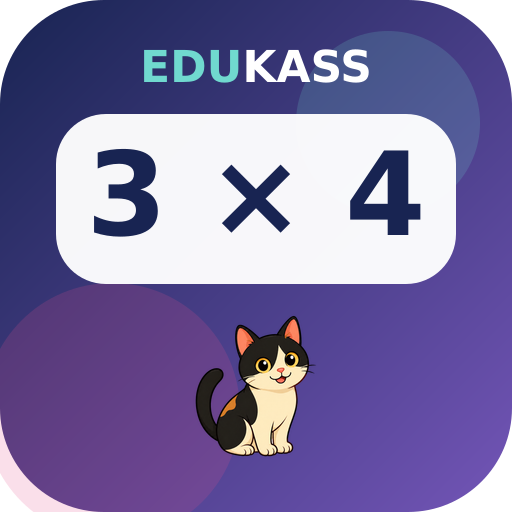
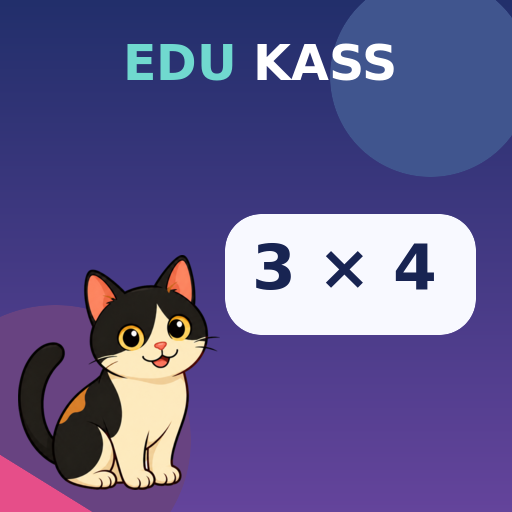
ок

diff --git a/games/korrutamine-test/game.css b/games/korrutamine-test/game.css
@@ -1314,25 +1314,121 @@ body.intro-active{overflow:hidden}
   .install-button-icon{font-size:1.55rem!important}
 }
 
-/* v39: mobile breathing room and safe intro composition. */
-@media(max-width:700px){
-  .topbar{
-    height:78px;
-    padding-top:12px;
-    padding-bottom:12px;
-  }
-  .intro-math span{
-    max-width:calc(100vw - 32px);
-    padding:.42em .62em!important;
-    font-size:1.08rem!important;
-    white-space:nowrap;
-  }
-  .intro-math span:first-child{left:16px!important;top:29%}
-  .intro-math span:last-child{right:16px!important;top:38%}
-}
-
 @media(max-height:500px) and (min-width:701px){
   .intro-brand{top:2.5%!important}
   .intro-brand small{font-size:clamp(1.55rem,8vh,2.4rem)!important}
   .intro-math span{font-size:1.15rem!important}.intro-math span:first-child{top:22%}.intro-math span:last-child{top:25%}
+}
+
+/* v39: mobile spacing and safe intro bounds. */
+@media(max-width:700px){
+  .topbar{
+    height:auto;
+    min-height:82px;
+    padding-top:12px;
+    padding-bottom:12px;
+  }
+  .intro-math span{
+    max-width:calc(100vw - 24px);
+    padding:.4em .58em!important;
+    font-size:1.05rem!important;
+    white-space:nowrap;
+  }
+  .intro-math span:first-child{left:12px;top:29%}
+  .intro-math span:last-child{left:auto;right:12px;top:38%}
+}
+
+@media(max-width:390px){
+  .topbar{min-height:88px;padding-left:10px;padding-right:10px;gap:8px}
+  .brand{gap:6px}
+  .brand-cat{width:46px;height:46px}
+  .intro-math span{font-size:1rem!important}
+}
+
+/* v40: fixed mobile chrome and one-screen play/intro layouts. */
+.topbar{
+  position:sticky;
+  top:0;
+  isolation:isolate;
+}
+
+@media(max-width:700px){
+  .topbar{
+    min-height:68px;
+    padding:7px max(8px,env(safe-area-inset-right)) 7px max(8px,env(safe-area-inset-left));
+    gap:6px;
+  }
+  .brand{flex:0 0 auto;gap:5px;font-size:.78rem}
+  .brand-cat{width:39px;height:39px;border-radius:12px}
+  .top-actions{min-width:0;margin-left:auto;gap:4px}
+  .install-button{
+    width:auto!important;
+    max-width:132px!important;
+    min-height:42px!important;
+    padding:5px 8px!important;
+    gap:4px!important;
+    font-size:.64rem!important;
+  }
+  .install-button-icon{font-size:1.25rem!important}
+  .share-button{min-height:42px;padding:0 7px;font-size:.62rem;gap:3px}
+  .share-button svg{width:16px;height:16px}
+  .sound-button{width:38px;height:38px;font-size:.92rem}
+  .app-shell{padding-top:8px;padding-bottom:max(18px,env(safe-area-inset-bottom))}
+
+  .battle-top{min-height:38px;margin-bottom:5px}
+  .back-button{min-height:36px}
+  .battle-stage{height:clamp(285px,40dvh,355px);min-height:285px}
+  .question-card{padding-top:25px}
+  .keypad{gap:5px}
+  .keypad button{min-height:40px}
+
+  .intro-brand{
+    top:max(2.6%,env(safe-area-inset-top))!important;
+    width:94vw;
+    font-size:1.55rem!important;
+  }
+  .intro-brand small{
+    margin-top:.22rem;
+    font-size:clamp(1.55rem,8.2vw,2.45rem)!important;
+    line-height:.88;
+  }
+  .intro-math span{
+    max-width:calc(50vw - 18px);
+    padding:.34em .48em!important;
+    font-size:clamp(.8rem,3.7vw,1rem)!important;
+  }
+  .intro-math span:first-child{left:12px;top:27%}
+  .intro-math span:last-child{right:12px;top:34%}
+  .intro-scene{top:52%;height:47vh}
+  .intro-cat-crop{left:-2%;bottom:-1%;width:170px;height:195px}
+  .intro-ignition{left:35%;bottom:16%;width:50px}
+  .intro-rocket{left:74%;top:52%;transform:translate(-50%,-44%) rotate(7deg) scale(.78)}
+  .intro-play{
+    bottom:max(calc(env(safe-area-inset-bottom) + 14px),2.2%)!important;
+    min-width:136px!important;
+    height:54px!important;
+  }
+}
+
+@media(max-width:390px){
+  .topbar{min-height:66px;padding-left:7px;padding-right:7px}
+  .brand{font-size:.72rem}
+  .brand-cat{width:36px;height:36px}
+  .install-button{max-width:118px!important;font-size:.58rem!important;padding:4px 6px!important}
+  .install-button-icon{font-size:1.12rem!important}
+  .share-button{padding:0 5px;font-size:.58rem}
+  .sound-button{width:35px;height:35px}
+}
+
+@media(max-width:700px) and (max-height:720px){
+  .intro-brand{top:max(1.5%,env(safe-area-inset-top))!important;font-size:1.35rem!important}
+  .intro-brand small{font-size:clamp(1.35rem,7.4vw,2rem)!important}
+  .intro-math span:first-child{top:24%}
+  .intro-math span:last-child{top:31%}
+  .intro-scene{top:53%;height:43vh}
+  .intro-cat-crop{width:145px;height:168px}
+  .intro-rocket{transform:translate(-50%,-44%) rotate(7deg) scale(.68)}
+  .intro-play{height:50px!important;min-width:128px!important}
+  .battle-stage{height:clamp(250px,36dvh,300px);min-height:250px}
+  .keypad button{min-height:36px}
 }

diff --git a/games/korrutamine-test/index.html b/games/korrutamine-test/index.html
@@ -5,8 +5,8 @@
   <meta name="viewport" content="width=device-width, initial-scale=1, viewport-fit=cover">
   <meta name="theme-color" content="#182452">
   <link rel="manifest" href="manifest.webmanifest">
-  <link rel="icon" href="assets/icon-192.png?v=39">
-  <link rel="apple-touch-icon" href="assets/icon-192.png?v=39">
+  <link rel="icon" href="assets/icon-192.png?v=40">
+  <link rel="apple-touch-icon" href="assets/icon-192.png?v=40">
   <title data-i18n="meta.title">EDUKASS — Korrutustabeli treener</title>
   <meta name="description" content="EDUKASSi korrutustabeli treener: korrutamise ja jagamise missioonid lastele." data-i18n-content="meta.description">
   <meta property="og:type" content="website">
@@ -14,10 +14,10 @@
   <meta property="og:title" content="Korrutustabeli treener">
   <meta property="og:description" content="Korrutamise ja jagamise missioonid lastele.">
   <meta property="og:url" content="https://edukass.ee/games/korrutamine-test/">
-  <meta property="og:image" content="https://edukass.ee/games/korrutamine-test/assets/share-korrutustabel.png?v=39">
+  <meta property="og:image" content="https://edukass.ee/games/korrutamine-test/assets/share-korrutustabel.png?v=40">
   <meta property="og:image:width" content="1200"><meta property="og:image:height" content="630">
   <meta name="twitter:card" content="summary_large_image">
-  <link rel="stylesheet" href="game.css?v=39">
+  <link rel="stylesheet" href="game.css?v=40">
 </head>
 <body class="intro-active">
   <section class="game-intro is-running" id="introScreen" aria-label="EDUKASSi mängu algus" data-i18n-aria-label="intro.aria">
@@ -330,7 +330,7 @@
   <dialog class="share-dialog install-dialog" id="installDialog" aria-labelledby="installDialogTitle">
     <form method="dialog" class="share-content">
       <button class="share-close" type="submit" aria-label="Sulge">×</button>
-      <div class="install-phone" aria-hidden="true"><img src="assets/icon-192.png?v=38" alt=""></div>
+      <div class="install-phone" aria-hidden="true"><img src="assets/icon-192.png?v=40" alt=""></div>
       <p class="eyebrow">EDUKASS</p>
       <h2 id="installDialogTitle">LISA TELEFONI EKRAANILE</h2>
       <p id="installHelpText">Mängu ikoon ilmub sinu telefoni. Kui automaatne lisamine ei avane, vali brauseri menüüst „Lisa avakuvale”.</p>
@@ -343,6 +343,6 @@
   <script src="i18n.js?v=1"></script>
   <script src="question-engine.js?v=1"></script>
   <script src="progress-store.js?v=1"></script>
-  <script src="game.js?v=38"></script>
+  <script src="game.js?v=40"></script>
 </body>
 </html>

diff --git a/games/korrutamine-test/service-worker.js b/games/korrutamine-test/service-worker.js
@@ -1,5 +1,5 @@
-const CACHE='edukass-korrutustabel-v39';
-const ASSETS=['./','./index.html','./game.css?v=39','./game.js?v=38','./manifest.webmanifest','./locales/et.js','./chapter-one.config.js','./i18n.js','./question-engine.js','./progress-store.js','./assets/icon-192.png?v=39','./assets/icon-512.png?v=39','./assets/share-korrutustabel.png?v=39','./assets/edukass-cat.png','./assets/edukass-cat-transparent.png','./assets/edukass-cat-reward-surprise.png','./assets/edukass-cat-reward-joy.png'];
+const CACHE='edukass-korrutustabel-v40';
+const ASSETS=['./','./index.html','./game.css?v=40','./game.js?v=40','./manifest.webmanifest','./locales/et.js','./chapter-one.config.js','./i18n.js','./question-engine.js','./progress-store.js','./assets/icon-192.png?v=40','./assets/icon-512.png?v=40','./assets/share-korrutustabel.png?v=40','./assets/edukass-cat.png','./assets/edukass-cat-transparent.png','./assets/edukass-cat-reward-surprise.png','./assets/edukass-cat-reward-joy.png'];
 self.addEventListener('install',event=>event.waitUntil(caches.open(CACHE).then(cache=>cache.addAll(ASSETS)).then(()=>self.skipWaiting())));
 self.addEventListener('activate',event=>event.waitUntil(caches.keys().then(keys=>Promise.all(keys.filter(key=>key!==CACHE).map(key=>caches.delete(key)))).then(()=>self.clients.claim())));
 self.addEventListener('fetch',event=>{

diff --git a/games/korrutamine-test/tests/system-foundations.test.js b/games/korrutamine-test/tests/system-foundations.test.js
@@ -1,4 +1,5 @@
 const assert=require('node:assert/strict');
+const fs=require('node:fs');
 const path=require('node:path');
 
 const gameRoot=path.resolve(__dirname,'..');
@@ -48,7 +49,12 @@ assert.equal(i18n.t('lesson.openMission',{number:11}),'Ava 11. missioon');
 assert.equal(i18n.t('feedback.correctAnswer',{answer:18}),'Õige vastus on 18');
 assert.equal(i18n.t('share.button'),'JAGA');
 assert.equal(i18n.t('share.copied'),'Link kopeeritud!');
+assert.equal(i18n.t('lesson.toExplanations'),'MÄNGI!');
 assert.equal(i18n.t('missing.key',{},'Varutekst'),'Varutekst');
+
+const gameCode=fs.readFileSync(path.join(gameRoot,'game.js'),'utf8');
+assert.match(gameCode,/currentLessonMode===LESSON_CONFIG\.divisionMode\?DIVISION_MISSION_ID:1/);
+assert.match(gameCode,/startLevel\(level,\{historyMode:'replace'\}\)/);
 
 const unsupported=i18nApi.create({
   locales:{et},

diff --git a/games/korrutamine-test/game.js b/games/korrutamine-test/game.js
@@ -1436,8 +1436,9 @@ lessonContinueButton.addEventListener('click',()=>{
   else progress.multiplicationLessonSeen=true;
   saveProgress();
   if(pendingLevelAfterLesson==='explanations'){
+    const level=currentLessonMode===LESSON_CONFIG.divisionMode?DIVISION_MISSION_ID:1;
     pendingLevelAfterLesson=null;
-    history.back();
+    startLevel(level,{historyMode:'replace'});
   }else if(pendingLevelAfterLesson==='map'){
     pendingLevelAfterLesson=null;
     history.back();

diff --git a/games/korrutamine-test/locales/et.js b/games/korrutamine-test/locales/et.js
@@ -47,7 +47,7 @@
       'lesson.numberAria':'Arv {value}',
       'lesson.dividendValueAria':'Jagatav {value}',
       'lesson.openMission':'Ava {number}. missioon',
-      'lesson.toExplanations':'Selgituste juurde',
+      'lesson.toExplanations':'MÄNGI!',
       'lesson.toMissions':'← KAARDILE',
       'explanations.eyebrow':'PEATÜKK 1 · SELGITUSED',
       'explanations.title':'Mida kordame?',

diff --git a/README_RU.md b/README_RU.md
@@ -1,12 +1,6 @@
 # EDUKASS — история версий сайта и игр
 
-Текущая сборка сайта: `EDUKASS-site-v39-mobile-polish`. Видимый бренд сайта — `EDUKASS`, основной домен — `edukass.ee`.
-
-## Версия 39 — мобильная доводка после теста
-
-- Карточка ссылки стала компактнее: пример `3 × 4 = 12` полностью помещается внутри белого поля с нормальными отступами.
-- На мобильной заставке оба примера теперь удерживаются внутри безопасной ширины экрана.
-- Верхняя белая панель игры стала немного выше и получила больше воздуха сверху и снизу.
+Текущая сборка сайта: `EDUKASS-site-v38-mobile-identity`. Видимый бренд сайта — `EDUKASS`, основной домен — `edukass.ee`.
 
 ## Версия 38 — узнаваемость игры на телефоне
 
